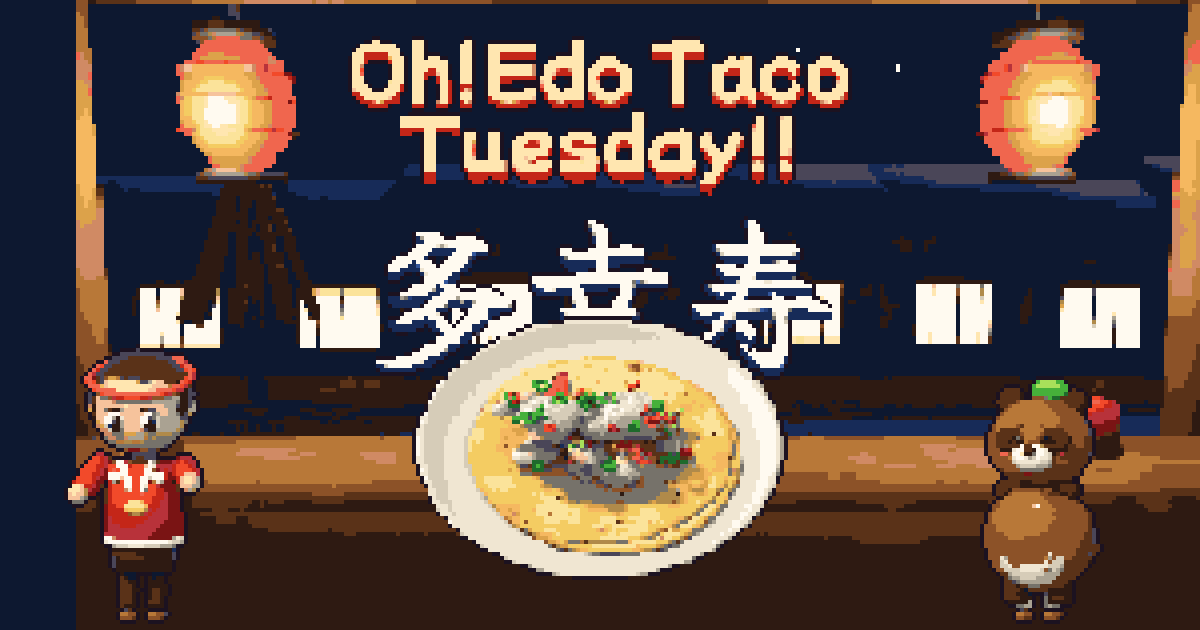
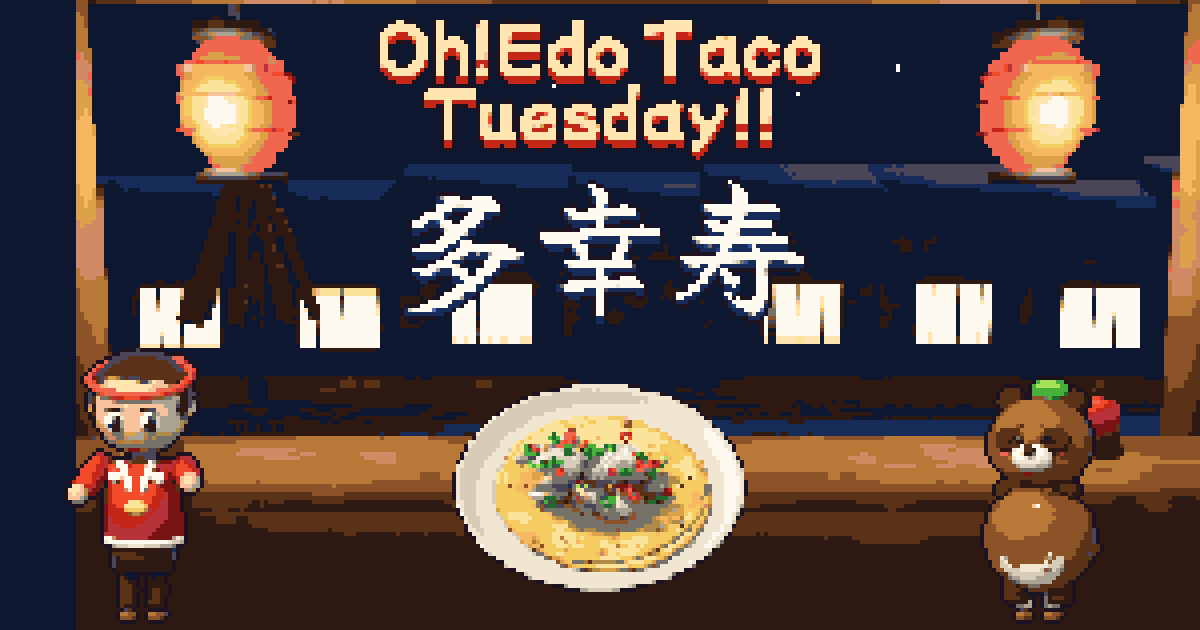
X用の絵：タコスとロゴが重ならないように配置を調整

Changed region(s): [[0.2775, 0.0302, 0.7092, 0.9651]]

diff --git a/art/pipeline/game_assets.py b/art/pipeline/game_assets.py
@@ -208,8 +208,8 @@ def ogp_and_icons(out, root_out):
         if os.path.exists(p):
             sh = Image.open(p).convert("RGBA")
             canvas.alpha_composite(sh.crop((64 * (sh.width // 64 - 1) if key == "pon" else 0, 0, 64 * (sh.width // 64 - 1) + 64 if key == "pon" else 64, 80)), (x, 76))
-    canvas.alpha_composite(lg.resize((180, 99), Image.NEAREST), (60, 6))
-    canvas.alpha_composite(taco.resize((96, 96), Image.NEAREST), (102, 64))
+    canvas.alpha_composite(lg.resize((160, 88), Image.NEAREST), (70, 2))
+    canvas.alpha_composite(taco.resize((76, 76), Image.NEAREST), (112, 84))
     canvas.resize((1200, 632), Image.NEAREST).crop((0, 0, 1200, 630)).convert("RGB").save(os.path.join(out, "ogp.png"))
     icon = Image.new("RGBA", (64, 64), rgb("#172b58") + (255,))
     icon.alpha_composite(taco.resize((64, 64), Image.NEAREST), (0, 2))
